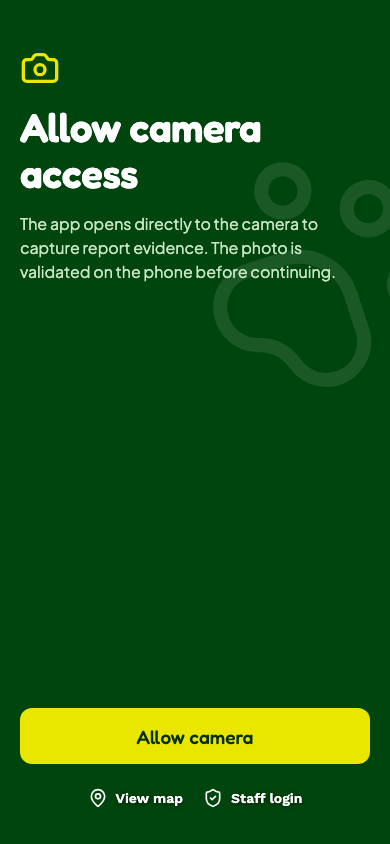
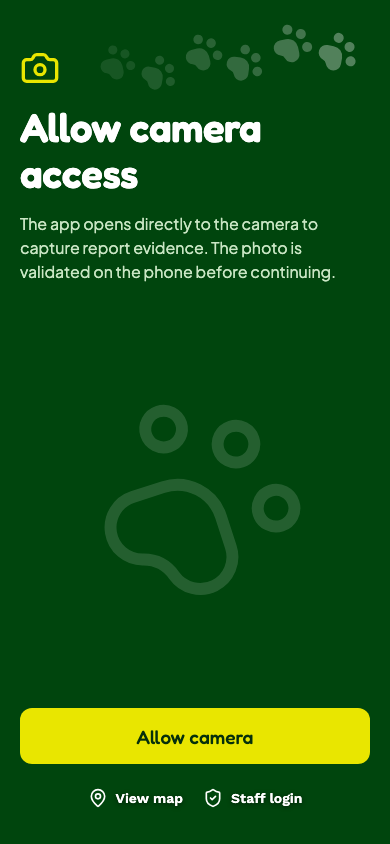
style(design): TD-134 Cámara: rastro de huellitas arriba a la derecha y huella grande en el hueco de la pantalla de permiso
El rastro del Login sube hacia la esquina junto al ícono de cámara y la huella grande pasa del fondo al espacio entre el texto y el botón, centrada y un poco más visible.

diff --git a/screens/CameraScreen.js b/screens/CameraScreen.js
@@ -11,7 +11,7 @@ import { ActivityIndicator, PanResponder, Pressable, StyleSheet, Text, View } fr
 import { useSafeAreaInsets } from 'react-native-safe-area-context';
 
 import DraftQueueBanner from '../components/DraftQueueBanner.js';
-import { Icon, Scrim } from '../components/ui/index.js';
+import { Icon, PawTrail, Scrim } from '../components/ui/index.js';
 import { useCameraCapture } from '../hooks/useCameraCapture.js';
 import { colors, fontFamily, layout, radius, spacing, type } from '../theme/index.js';
 
@@ -145,17 +145,18 @@ export default function CameraScreen({
 
       {!hasPermission ? (
         <View style={[styles.permission, { paddingTop: insets.top + spacing.xxl, paddingBottom: Math.max(insets.bottom, spacing.xxl) }]}>
-          <View pointerEvents="none" accessible={false} aria-hidden importantForAccessibility="no" style={styles.permissionPaw}>
-            <Icon name="dog" size={260} color={colors.onPrimary} strokeWidth={1.3} />
-          </View>
           {!permission ? (
             <ActivityIndicator accessibilityLabel={t('common.loading')} color={colors.signal} />
           ) : (
             <>
+              <PawTrail style={[styles.permissionTrail, { top: insets.top + spacing.sm }]} />
               <View style={styles.permissionText}>
                 <Icon name="camera" size={40} color={colors.signal} />
                 <Text accessibilityRole="header" style={styles.permissionTitle}>{t('camera.permissionTitle')}</Text>
                 <Text style={styles.permissionBody}>{t('camera.permissionBody')}</Text>
+              </View>
+              <View pointerEvents="none" accessible={false} aria-hidden importantForAccessibility="no" style={styles.permissionPawSlot}>
+                <Icon name="dog" size={220} color={colors.onPrimary} strokeWidth={1.3} />
               </View>
               <View style={styles.permissionActions}>
                 <Pressable accessibilityRole="button" onPress={requestPermission} style={({ pressed }) => [styles.permissionButton, pressed && styles.pressed]}>
@@ -218,7 +219,8 @@ const styles = StyleSheet.create({
   link: { flexDirection: 'row', alignItems: 'center', gap: spacing.sm, minHeight: layout.minTouch },
   linkText: { fontFamily: fontFamily.label, fontSize: 14, color: colors.onPrimary, textShadowColor: 'rgba(0,0,0,0.5)', textShadowRadius: 4, textShadowOffset: { width: 0, height: 1 } },
   permission: { ...StyleSheet.absoluteFill, backgroundColor: colors.primary, paddingHorizontal: layout.margin, justifyContent: 'space-between', overflow: 'hidden' },
-  permissionPaw: { position: 'absolute', right: -60, top: 140, opacity: 0.1, transform: [{ rotate: '-18deg' }] },
+  permissionTrail: { left: 72, right: -8, bottom: undefined, height: 76 },
+  permissionPawSlot: { flex: 1, minHeight: 0, alignItems: 'center', justifyContent: 'center', opacity: 0.14, transform: [{ rotate: '-18deg' }] },
   permissionText: { gap: spacing.lg, marginTop: spacing.xxl },
   permissionTitle: { fontFamily: fontFamily.display, fontSize: 40, lineHeight: 46, letterSpacing: -0.4, color: colors.onPrimary },
   permissionBody: { ...type.body, fontSize: 16, lineHeight: 24, color: colors.onForest, maxWidth: 420 },
